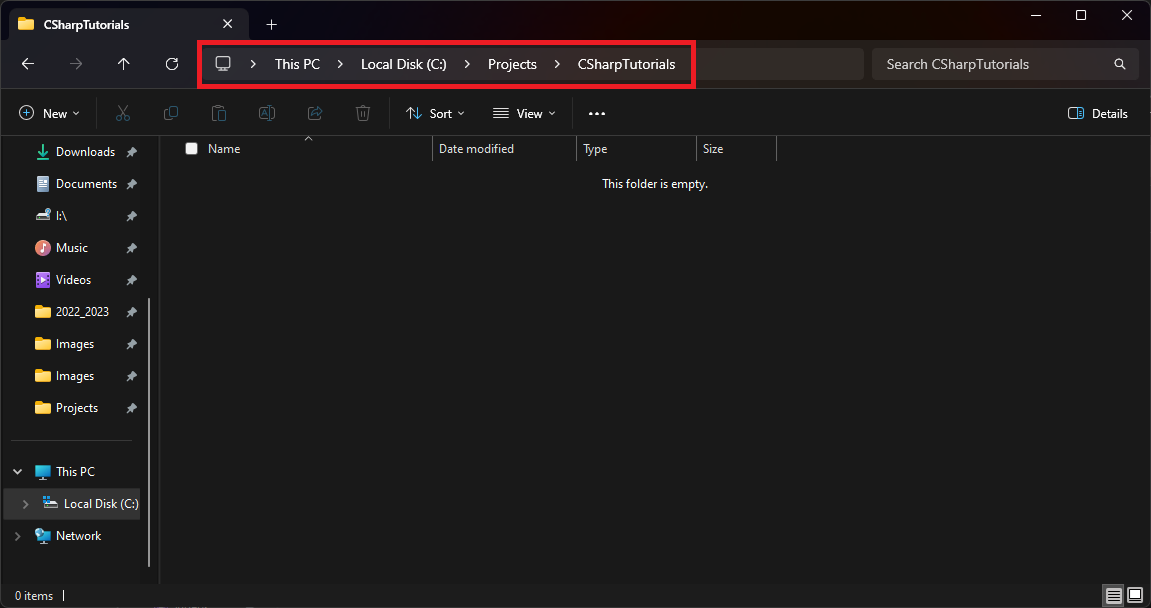
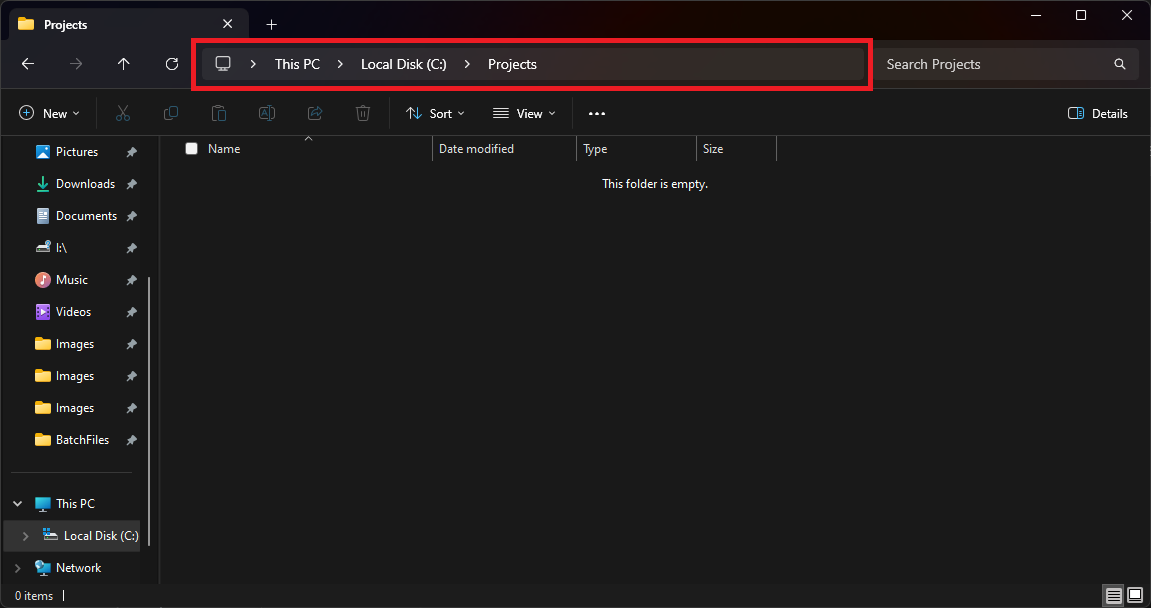
Update the final version

diff --git a/Setup/Lesson/Setup.md b/Setup/Lesson/Setup.md
@@ -1,0 +1,173 @@
+s# Lesson Setup
+
+This guide will walk you through setting up your first lesson project correctly.
+
+You only need to follow these steps once per lesson (or when starting a new lesson folder).
+
+---
+
+## Step 1: Create a GitHub Repository
+
+1. Go to [https://github.com](https://github.com) and sign in.
+
+![Create GitHub repository](./Images/001.png)
+
+2. Click the **+** button in the top right → **New repository**.
+
+3. Fill in the details:
+   - **Repository name**: Use a clear name so I can identify it  
+     (example: `YourName-Module101-Lesson1`)
+   - **Description**: Optional
+   - Set the repository to **Public** (so I can view your work)
+
+![Create GitHub repository](./Images/002.png)
+
+4. **Do not** tick “Add a README file”.
+5. Click **Create repository**.
+
+Copy the HTTPS link that GitHub shows you  
+(it looks like `https://github.com/YourUsername/YourRepoName`).  
+You will need this link shortly.
+
+![Create GitHub repository](./Images/011.png)
+
+---
+
+## Step 2: Create a C# Console Application
+
+1. Open **Visual Studio**.
+2. Click **Create a new project**.
+
+![Create GitHub repository](./Images/012.png)
+
+3. Search for and select **Console App (.NET Framework)**  
+   (Make sure it says **.NET Framework**, not just .NET).
+4. Click **Next**.
+
+![Create GitHub repository](./Images/013.png)
+
+5. Configure the project:
+   - **Project name**: `ProjectWork`  
+     *(On a real project you would name this the actual title of your project)*
+   - **Location**: Browse to  
+     `Projects\CSharpTutorials\Module101\Lesson1`
+6. Click **Create**.
+
+![Create GitHub repository](./Images/016.png)
+
+Your project should now look like this:
+
+![Create GitHub repository](./Images/017.png)
+
+7. **Close Visual Studio** completely before continuing.
+
+---
+
+## Step 3: Run the First Git Setup (GITCommand.bat)
+
+1. Open File Explorer and go to the lesson folder you are working on:  
+   ```
+   Projects\CSharpTutorials\Module101\Lesson1
+   ```
+
+![Create GitHub repository](./Images/018.png)
+
+2. Double-click the file called **GITCommand.bat**.
+
+![Create GitHub repository](./Images/019.png)
+
+The script will now ask you for information.
+
+### Paste the GitHub link
+
+Copy the HTTPS link from your GitHub repository:
+
+![Create GitHub repository](./Images/020.png)
+
+Paste it into the command window (`Ctrl + V`) and press **Enter**:
+
+![Create GitHub repository](./Images/021.png)
+
+![Create GitHub repository](./Images/022.png)
+
+### Enter a commit message
+
+A **commit message** is a short note that describes what you just did.  
+It helps you (and me) understand the history of your work later.
+
+For the very first commit, type something like:
+
+```text
+Setting up the blank project for Lesson 1
+```
+
+![Create GitHub repository](./Images/023.png)
+
+Press **Enter**.
+
+![Create GitHub repository](./Images/024.png)
+
+When it finishes, press any key to close the window.
+
+---
+
+### Important Notes
+
+**You must create a new GitHub repository for each lesson** and use the `GITCommand.bat` file that is located inside that specific lesson folder if you want me to be able to review your work.
+
+**If you see red text in the command window**, you probably forgot to close Visual Studio. Close it and try again.
+
+---
+
+## Opening Your Project Again
+
+You can now open your project and start the lesson.  
+There are several easy ways to do this:
+
+1. Open Visual Studio and choose it from **Recent projects**.
+
+![Create GitHub repository](./Images/025.png)
+
+2. Click **Open a project or solution** after opening Visual Studio, then browse to the project.
+
+![Create GitHub repository](./Images/026.png)
+
+![Create GitHub repository](./Images/027.png)
+
+3. Simply double-click the `.sln` file inside File Explorer.
+
+![Create GitHub repository](./Images/028.png)
+
+---
+
+## Step 4: Committing Your Work From Now On
+
+After the first setup, you no longer need to provide the GitHub link every time.
+
+At the end of **every programming session**, double-click **GITCommit.bat** in the same lesson folder.
+
+You should run `GITCommit.bat` whenever:
+
+- You have finished for the day
+- You have finished watching the tutorial video
+- You have finished the homework
+- You have made important changes and want to save your progress
+
+The script will ask you for a commit message, then commit and push your work automatically.
+
+![Run GITCommit.bat](./Images/031.png)
+![Run GITCommit.bat](./Images/029.png)
+![Run GITCommit.bat](./Images/030.png)
+
+---
+
+## Done
+
+Your lesson is now correctly set up and connected to GitHub.
+
+**Remember:**
+- Always commit your work regularly using `GITCommit.bat`
+- Keep your repository **Public** so I can view it
+- Use clear commit messages
+
+← **[Return to Preparation](../../README.md#preparation--install-the-tools-first)**

diff --git a/Setup/ProjectCreation/Setup.md b/Setup/ProjectCreation/Setup.md
@@ -69,6 +69,18 @@ It will automatically create the full folder structure for all the lessons and a
 
 ![Run the batch file](./Images/005.png)
 
+You will get a warning, click **Run** I wrote the file it is safe.
+
+![Run the batch file](./Images/006.png)
+
+Press any key and the window will close, this has created the folders for the project and added a file to each folder that will be used to send me your work.
+
+![Run the batch file](./Images/007.png)
+
+You will now have two new folders populated with multiple folders inside one for each tutorial.
+
+![Run the batch file](./Images/008.png)
+
 ---
 
 ## Done
@@ -76,5 +88,7 @@ It will automatically create the full folder structure for all the lessons and a
 Your project folders are now ready.
 
 You can return to the main page:
+
+→ - **[Lesson Setup](../Lesson/Setup.md)**
 
 ← **[Return to Preparation](../../README.md#preparation--install-the-tools-first)**

diff --git a/README.md b/README.md
@@ -49,5 +49,6 @@ Follow these two guides **before** you start any of the tutorials:
 - **[Git Setup](./Setup/Git/Setup.md)**
 - **[Visual Studio Setup](./Setup/VisualStudio/Setup.md)**
 - **[Project Creatione Setup](./Setup/ProjectCreation/Setup.md)**
+- **[Lesson Setup](./Setup/Lesson/Setup.md)**
 
 Once both are installed you are ready to continue.
